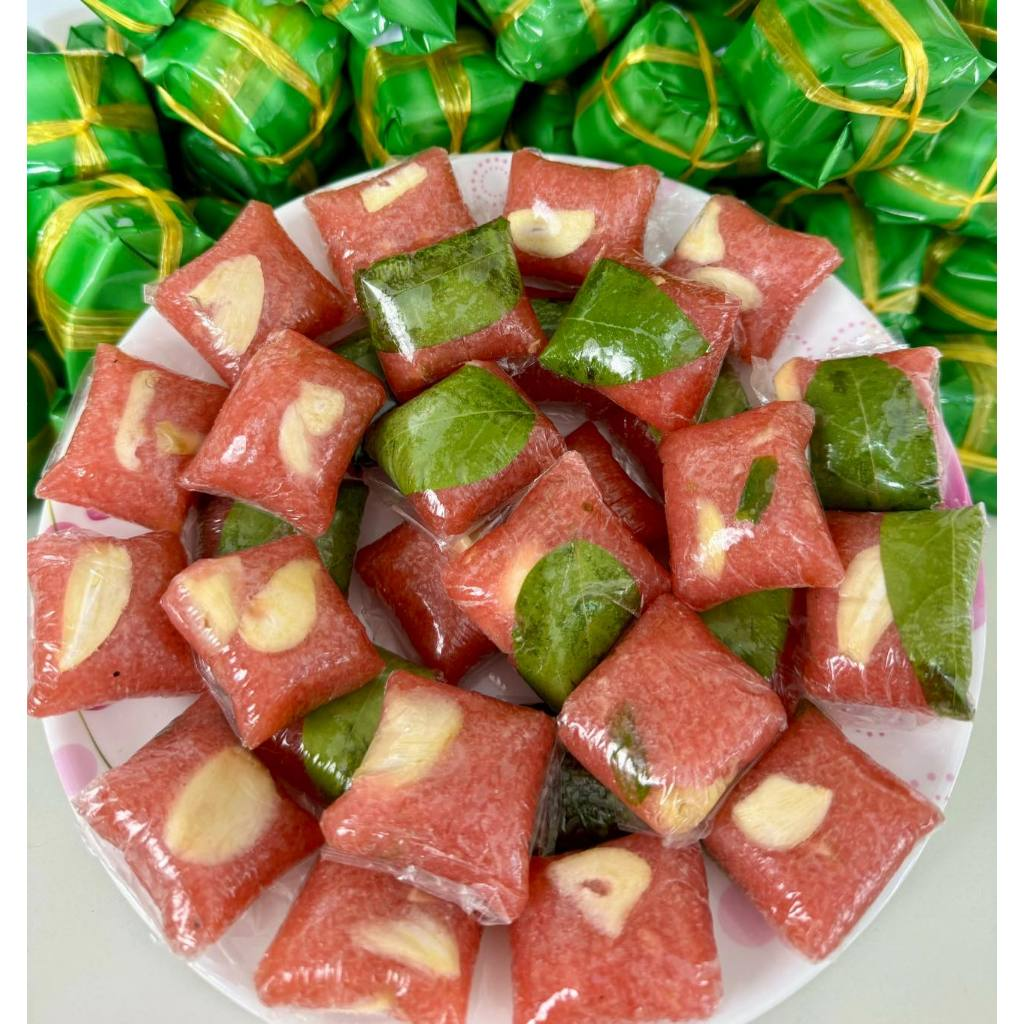
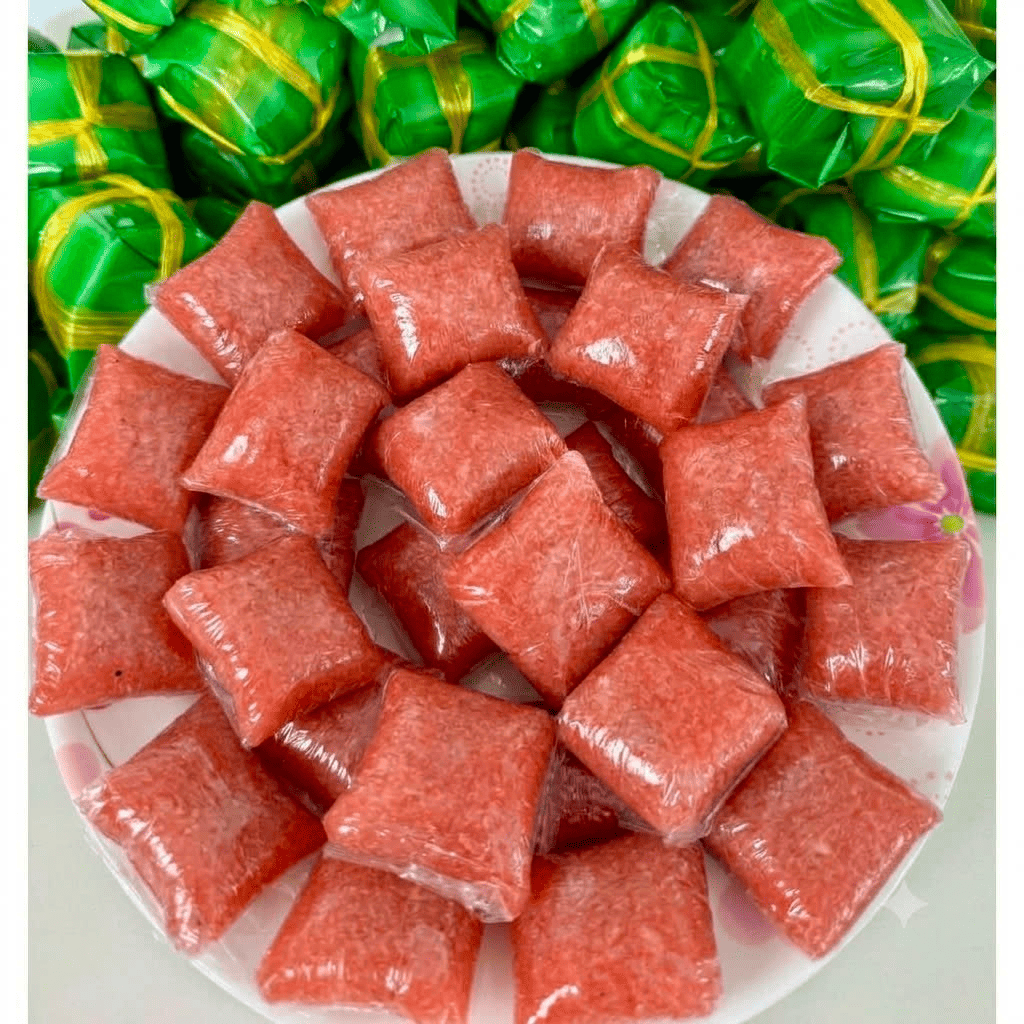
feat(checkout): drop shipping address, add nem freshness note
Remove the delivery-address field from checkout and the 'Giao toan quoc'
feature card; add a note-field placeholder prompting eat-now vs fresh
(defaults to fresh nem, sours in 1-2 days). Refresh product images.

diff --git a/src/App.tsx b/src/App.tsx
@@ -10,7 +10,7 @@ import {
   type MotionValue,
 } from "framer-motion";
 import { useEffect, useMemo, useRef, useState, type ReactNode, type ChangeEvent, type FormEvent } from "react";
-import { ShoppingBag, Search, ArrowUpRight, Truck, Shield, Leaf, Sparkles, Sun, Moon, Plus, Minus, Trash2, X, Loader2, Check } from "lucide-react";
+import { ShoppingBag, Search, ArrowUpRight, Shield, Leaf, Sparkles, Sun, Moon, Plus, Minus, Trash2, X, Loader2, Check } from "lucide-react";
 
 import { CartProvider, useCart } from "@/lib/cart";
 import { sendOrder } from "@/lib/orders";
@@ -646,14 +646,8 @@ function Features() {
             <p className="mt-2 text-primary-foreground/80 max-w-md">Nem chua, nem bì và chả lụa truyền thống Đồng Tháp - gói lá hoặc đóng hộp.</p>
           </Reveal>
 
-          {/* Two compact icon cells */}
-          <Reveal delay={0.16} className="group rounded-3xl border border-background/10 p-7 transition-colors hover:bg-background/[0.05]">
-            <Truck className="size-7 mb-4 transition-transform duration-500 group-hover:-translate-y-1" strokeWidth={1.5} />
-            <h3 className="font-display text-xl">Giao toàn quốc</h3>
-            <p className="mt-1 text-sm text-background/65">Giữ lạnh, đến nơi trong 1-3 ngày.</p>
-          </Reveal>
-
-          <Reveal delay={0.24} className="group rounded-3xl border border-background/10 p-7 transition-colors hover:bg-background/[0.05]">
+          {/* Compact icon cell */}
+          <Reveal delay={0.16} className="md:col-span-2 group rounded-3xl border border-background/10 p-7 transition-colors hover:bg-background/[0.05]">
             <Shield className="size-7 mb-4 transition-transform duration-500 group-hover:rotate-6" strokeWidth={1.5} />
             <h3 className="font-display text-xl">Đổi mới 100%</h3>
             <p className="mt-1 text-sm text-background/65">Không như mong đợi, đổi ngay.</p>
@@ -669,7 +663,7 @@ function Features() {
 function CartDrawer() {
   const reduce = useReducedMotion();
   const { items, open, setOpen, inc, dec, remove, total, clear } = useCart();
-  const [form, setForm] = useState({ name: "", phone: "", address: "", note: "" });
+  const [form, setForm] = useState({ name: "", phone: "", note: "" });
   const [payment, setPayment] = useState<"qr" | "cod">("cod");
   const [status, setStatus] = useState<"idle" | "sending" | "sent" | "error">("idle");
   const [error, setError] = useState("");
@@ -719,7 +713,7 @@ function CartDrawer() {
 
   const resetAndContinue = () => {
     setStatus("idle");
-    setForm({ name: "", phone: "", address: "", note: "" });
+    setForm({ name: "", phone: "", note: "" });
     setPayment("cod");
     setOpen(false);
   };
@@ -813,8 +807,7 @@ function CartDrawer() {
                       />
                       {phoneShowErr && <p className="mt-1 text-xs text-destructive">Số điện thoại không hợp lệ. Nhập 10 số bắt đầu bằng 0 (vd 0907640698).</p>}
                     </div>
-                    <input required value={form.address} onChange={set("address")} placeholder="Địa chỉ giao hàng" aria-label="Địa chỉ" className={inputCls} />
-                    <textarea value={form.note} onChange={set("note")} placeholder="Ghi chú (tuỳ chọn)" aria-label="Ghi chú" rows={2} className={inputCls} />
+                    <textarea value={form.note} onChange={set("note")} placeholder="Ghi chú: ăn liền hay chưa? (mặc định lấy nem mới, 1-2 ngày sau sẽ chua)" aria-label="Ghi chú" rows={2} className={inputCls} />
                   </div>
 
                   <div className="space-y-2">

diff --git a/src/lib/orders.ts b/src/lib/orders.ts
@@ -8,7 +8,7 @@ export interface OrderItem {
 export type PaymentMethod = "qr" | "cod";
 
 export interface OrderPayload {
-  customer: { name: string; phone: string; address: string; note?: string };
+  customer: { name: string; phone: string; note?: string };
   items: OrderItem[];
   total: number;
   payment: PaymentMethod;
